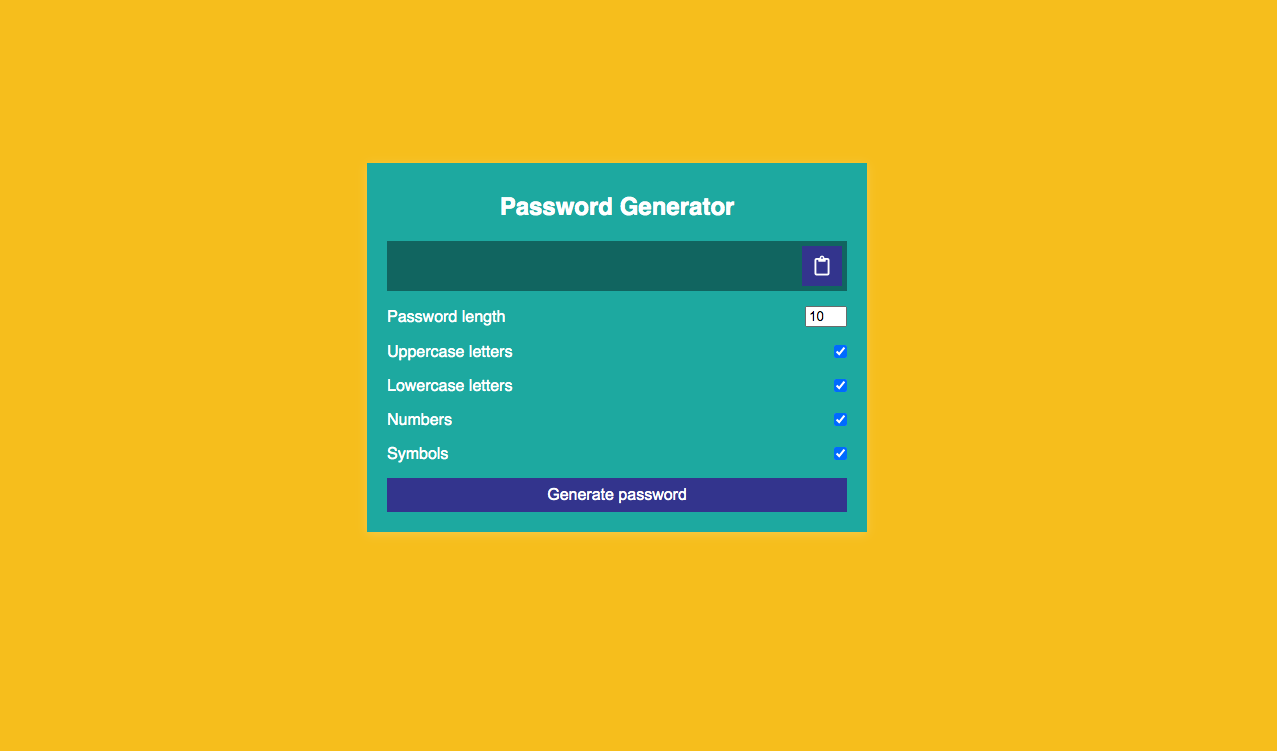
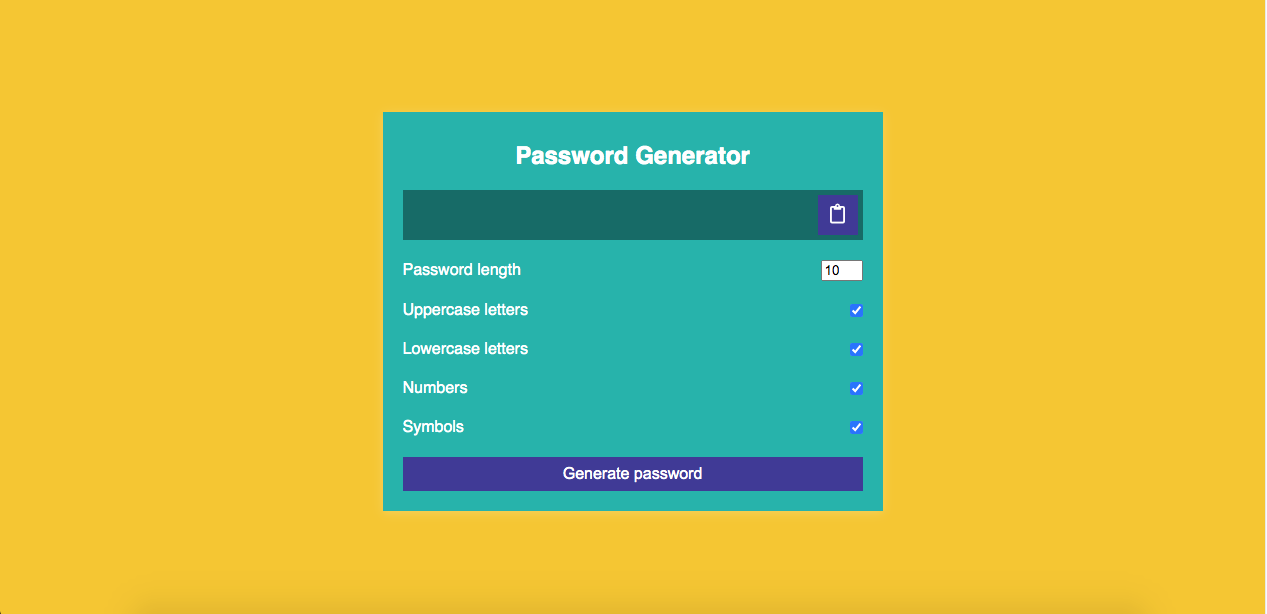
modified files

Changed region(s): [[0.277, 0.1547, 0.708, 0.8664], [0.985, 0.0, 1.0, 1.0]]

diff --git a/src/mock/data.js b/src/mock/data.js
@@ -52,13 +52,13 @@ export const projectsData = [
   },
   {
     id: nanoid(),
-    img: "dayplanner.png",
-    title: "Day Planner",
+    img: "passwordgenerator.png",
+    title: "Password Generator",
     info:
-      "A simple calendar application that allows the user to save events for each hour of the day.",
+      "An application that can generate strong passwords quickly and effortlessly. It saves people's time and ensures secure access to data.",
     info2: "",
-    url: "https://kaghera.github.io/Day-Planner/",
-    repo: "https://github.com/Kaghera/Day-Planner",
+    url: "https://kaghera.github.io/Password-Generator/",
+    repo: "https://github.com/Kaghera/Password-Generator",
   },
 ];
 
